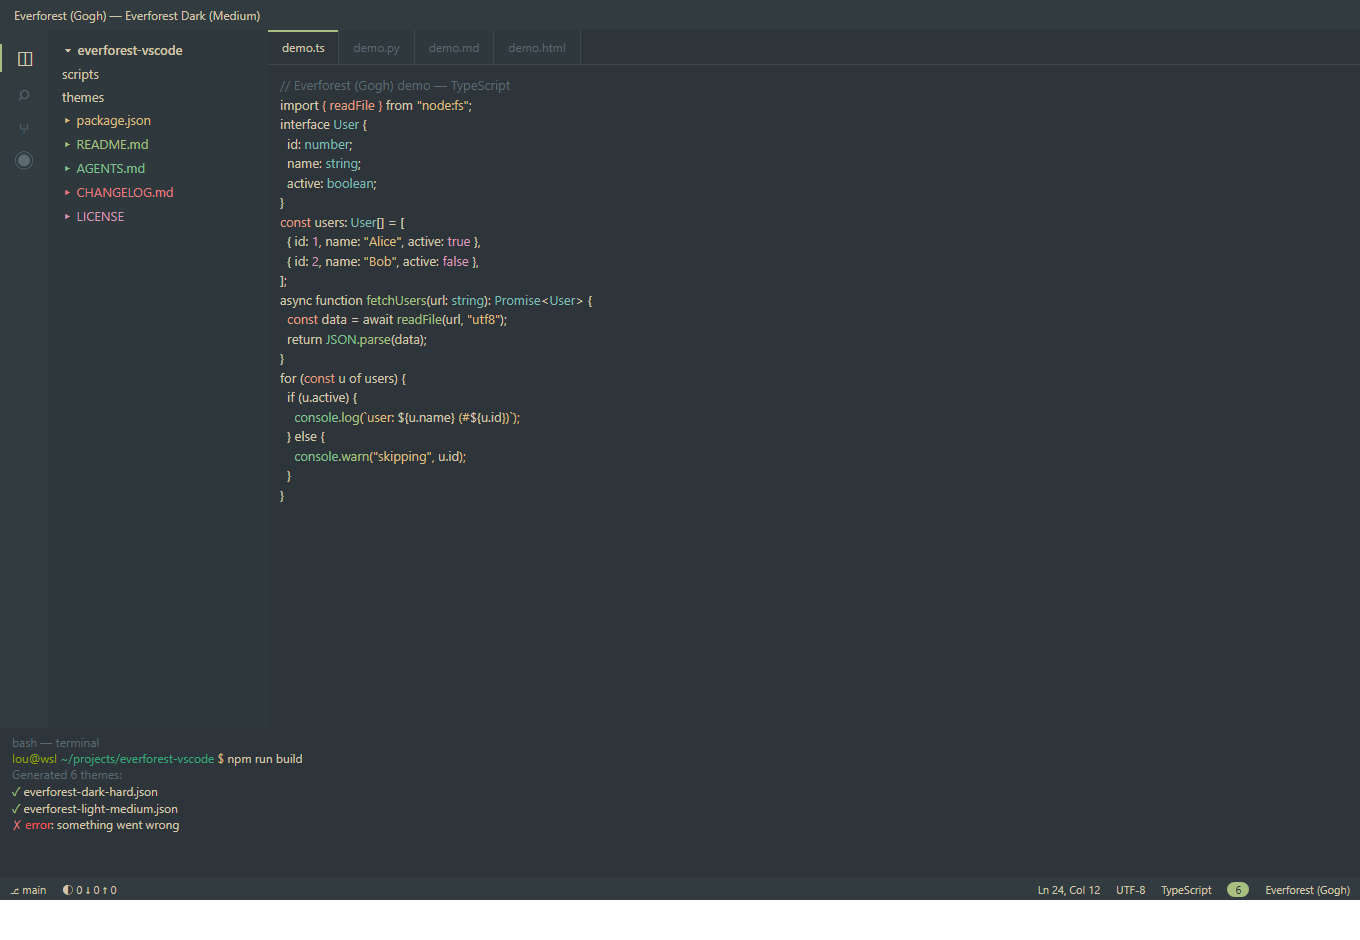
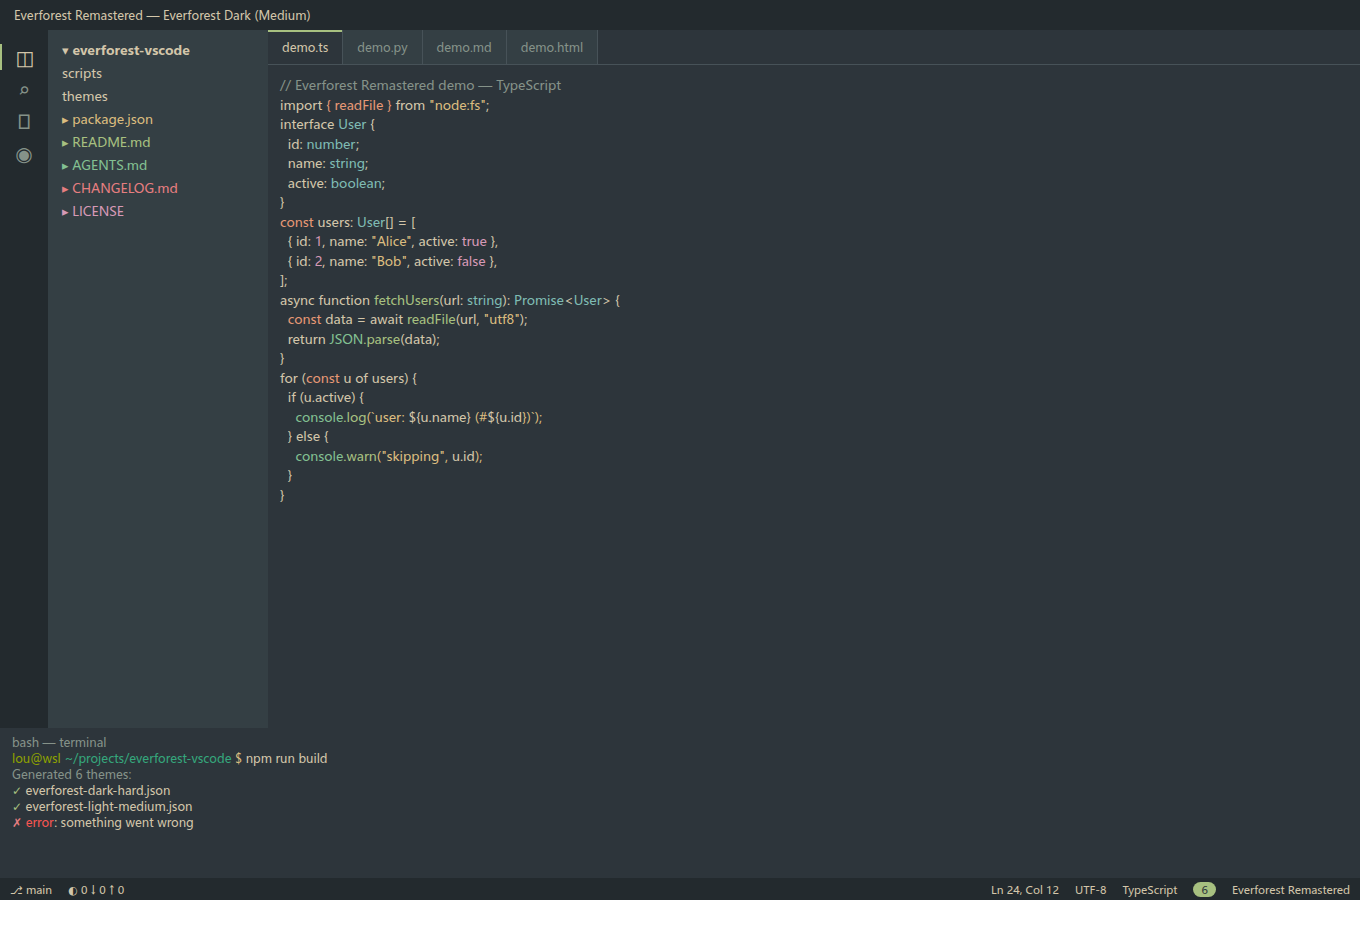
chore(release): 更名为 Everforest Remastered 1.0.0
- package.json: name everforest / displayName Everforest Remastered / version 1.0.0
- README: 官方调色板来源、特性、迁移说明与 credits
- CHANGELOG: 1.0.0 条目，并修正 0.1.0 的 Marketplace ID
- 用无头 Chromium 重生成 README 截图

diff --git a/README.md b/README.md
@@ -1,26 +1,38 @@
-# Everforest (Gogh)
+# Everforest Remastered
 
-Six Everforest color schemes (Dark/Light × Hard/Medium/Soft) for VS Code.
+Six static Everforest color schemes (Dark/Light × Hard/Medium/Soft) for VS Code,
+built directly from the official Everforest palette.
 
-Warm, soft and eye-friendly — the 16 terminal ANSI colors match the original
-[Gogh-Co](https://github.com/Gogh-Co/Gogh) Everforest palettes exactly.
+Warm, soft and eye-friendly. Every accent, grey and background comes from the
+canonical [Everforest](https://github.com/sainnhe/everforest) palette as published
+by [everforest-web](https://github.com/SirEthanator/everforest-web); the VS Code
+workbench surfaces and the 16-color terminal palette are derived from it.
 
-Designed for the **VS Code + integrated terminal + terminal-based agent** workflow:
-terminal colors stay faithful to Gogh, while the editor and workbench extend the
-same color semantics without competing with the TUI.
+This is a maintained remaster of the archived official VS Code port
+([sainnhe/everforest-vscode](https://github.com/sainnhe/everforest-vscode), last
+released in 2022): six static variants, no runtime configuration, broader
+workbench coverage and a richer 16-color terminal palette.
 
 ![Everforest Dark (Medium)](images/everforest-dark-medium.png)
 
 ![Everforest Light (Medium)](images/everforest-light-medium.png)
 
+Designed for the **VS Code + integrated terminal + terminal-based agent** workflow:
+the terminal keeps a full 16-color palette (normal and bright groups differ), while
+the editor and workbench reuse the same Everforest color semantics without competing
+with the TUI.
+
 ## Features
 
-- 🌿 **Warm, nature-inspired palette** — low contrast, gentle on the eyes
-- 🌓 **Six variants** — Dark/Light × Hard/Medium/Soft for any ambient light
-- 🎯 **Semantic highlighting** — syntax, HTML/CSS, Markdown and terminal all tuned
-- 🖥 **Faithful terminal colors** — the exact Gogh-Co 16-color ANSI palette
+- 🌿 **Official palette** — accents, greys and the six background ramps are taken
+  from the canonical Everforest scheme (via `everforest-web`)
+- 🌓 **Six static variants** — Dark/Light × Hard/Medium/Soft, pick once and forget
+- 🖥 **Rich 16-color terminal** — the `terminal.ansi*` set is derived from the
+  palette, with distinct normal and bright groups for TUIs
+- 🎯 **Semantic highlighting** — syntax, HTML/CSS/Markdown, JSON/YAML/TOML, Rust,
+  Go, Shell and Dockerfile all share one role mapping
 - 🌙 **Blue-light friendly** — pairs well with f.lux / Redshift
-- 🔁 **Terminal-to-editor consistency** — shared color semantics for VS Code and agent TUIs
+- 🧩 **No configuration** — no settings to tune, no runtime overhead
 
 ## Themes
 
@@ -35,20 +47,32 @@ same color semantics without competing with the TUI.
 
 ## Quick Start
 
-1. **Marketplace**：VSCode 扩展面板搜索 `Everforest (Gogh)` → Install
-2. **VSIX**：从 [Releases](https://github.com/Frost-rA9/everforest-vscode/releases) 下载 → `code --install-extension everforest-gogh-<version>.vsix`
+1. **Marketplace**：VSCode 扩展面板搜索 `Everforest Remastered` → Install
+2. **VSIX**：从 [Releases](https://github.com/Frost-rA9/everforest-vscode/releases) 下载 → `code --install-extension everforest-<version>.vsix`
 3. Press `Ctrl+K Ctrl+T` and pick a variant
+
+## Migrating from 0.2.0 (`everforest-gogh`)
+
+The extension id changed to `Frost-rA9.everforest`, so the previous
+`Frost-rA9.everforest-gogh` listing no longer receives updates. To migrate:
+
+1. Uninstall the old extension (`code --uninstall-extension Frost-rA9.everforest-gogh`)
+2. Install **Everforest Remastered** (`Frost-rA9.everforest`)
+3. Done — theme labels are unchanged, so `workbench.colorTheme` keeps working
 
 ## Contributing
 
-Tweak the derived colors in `scripts/templates/derived.mjs`, then
-`npm run build` to regenerate the 6 theme files. See `AGENTS.md` for
-conventions.
+The palette data is vendored in `scripts/palette/everforest-web.mjs` and must stay
+identical to upstream. Tune the VS Code derivation in
+`scripts/templates/derived.mjs`, then `npm run build` to regenerate the six theme
+files and `npm run validate` to check them. See `AGENTS.md` for conventions.
 
 ## Credits
 
-- Color schemes: [Gogh-Co/Gogh](https://github.com/Gogh-Co/Gogh) (MIT)
-- Official Everforest color scheme: <https://everforest.vercel.app/>
+- Palette: [SirEthanator/everforest-web](https://github.com/SirEthanator/everforest-web) (MIT),
+  a faithful transcription of the official Everforest colors
+- Official color scheme: [sainnhe/everforest](https://github.com/sainnhe/everforest) (MIT)
+- VS Code derivation, workbench mapping and terminal palette: this project
 
 ## License
 

diff --git a/CHANGELOG.md b/CHANGELOG.md
@@ -1,5 +1,42 @@
 # Changelog
 
+## [1.0.0] - 2026-10-03
+
+### Changed
+
+- **Rebased the whole extension onto the official Everforest palette** published by
+  [everforest-web](https://github.com/SirEthanator/everforest-web) (pinned to
+  `6f6e3c5b8b`, MIT) instead of the Gogh terminal schemes. Workbench surfaces now use
+  the upstream `Background Dim/0–5`, `Background Visual` and `Background
+  Red/Green/Blue/Yellow/Purple` ramps, the `Grey 0–2` neutrals, and the exact
+  official accents (notably the true orange `#E69875`/`#F57D26` instead of a
+  red+yellow mix).
+- Renamed the extension to **Everforest Remastered** (id `Frost-rA9.everforest`,
+  new Marketplace listing) and bumped to 1.0.0. Theme labels are unchanged.
+- Terminal ANSI colors are now derived from the palette with distinct normal and
+  bright groups (`scripts/palette/ansi.mjs`), replacing the Gogh values.
+
+### Added
+
+- `scripts/palette/everforest-web.mjs` — vendored upstream palette data + provenance.
+- `scripts/palette/ansi.mjs` — documented 16-color terminal derivation.
+- Upstream-consistency validation: editor/terminal backgrounds, chrome and border
+  roles, accent roles, and a per-theme expected-background table.
+- Extended workbench coverage: diff line backgrounds, modified-text tint,
+  sticky-scroll surfaces, sash hover border, terminal border/selection.
+
+### Fixed
+
+- Corrected the Marketplace id recorded for the 0.1.0 release (it is
+  `Frost-rA9.everforest-gogh`, not `Frost-rA9.everforest-vscode`).
+- Light-theme comment/line-number greys are nudged toward the foreground so they
+  stay readable on the darker "soft" background.
+
+### Notes
+
+- The previous `Frost-rA9.everforest-gogh` listing does not receive this update;
+  see the migration section in the README.
+
 ## [0.2.0] - 2026-09-03
 
 ### Added
@@ -42,4 +79,4 @@
 ### Published
 
 - **v0.1.0 released on the VS Code Marketplace** (extension id
-  `Frost-rA9.everforest-vscode`) and GitHub Releases
+  `Frost-rA9.everforest-gogh`) and GitHub Releases
